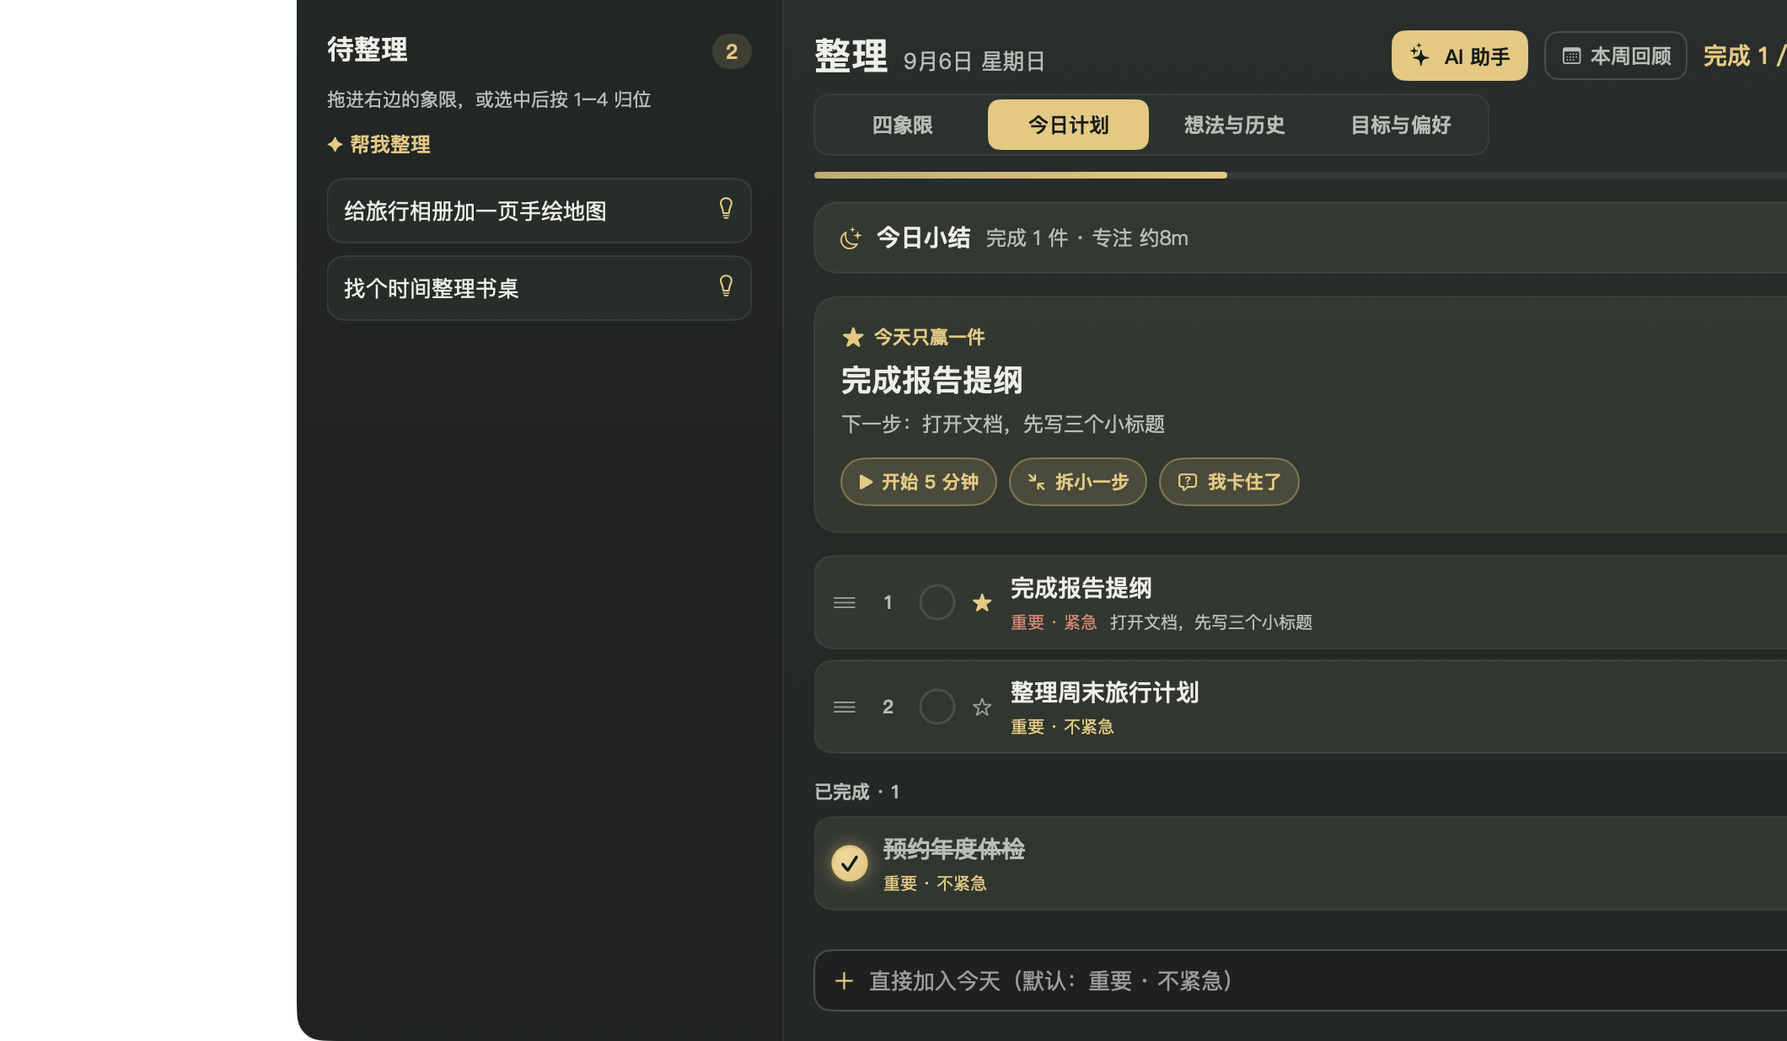
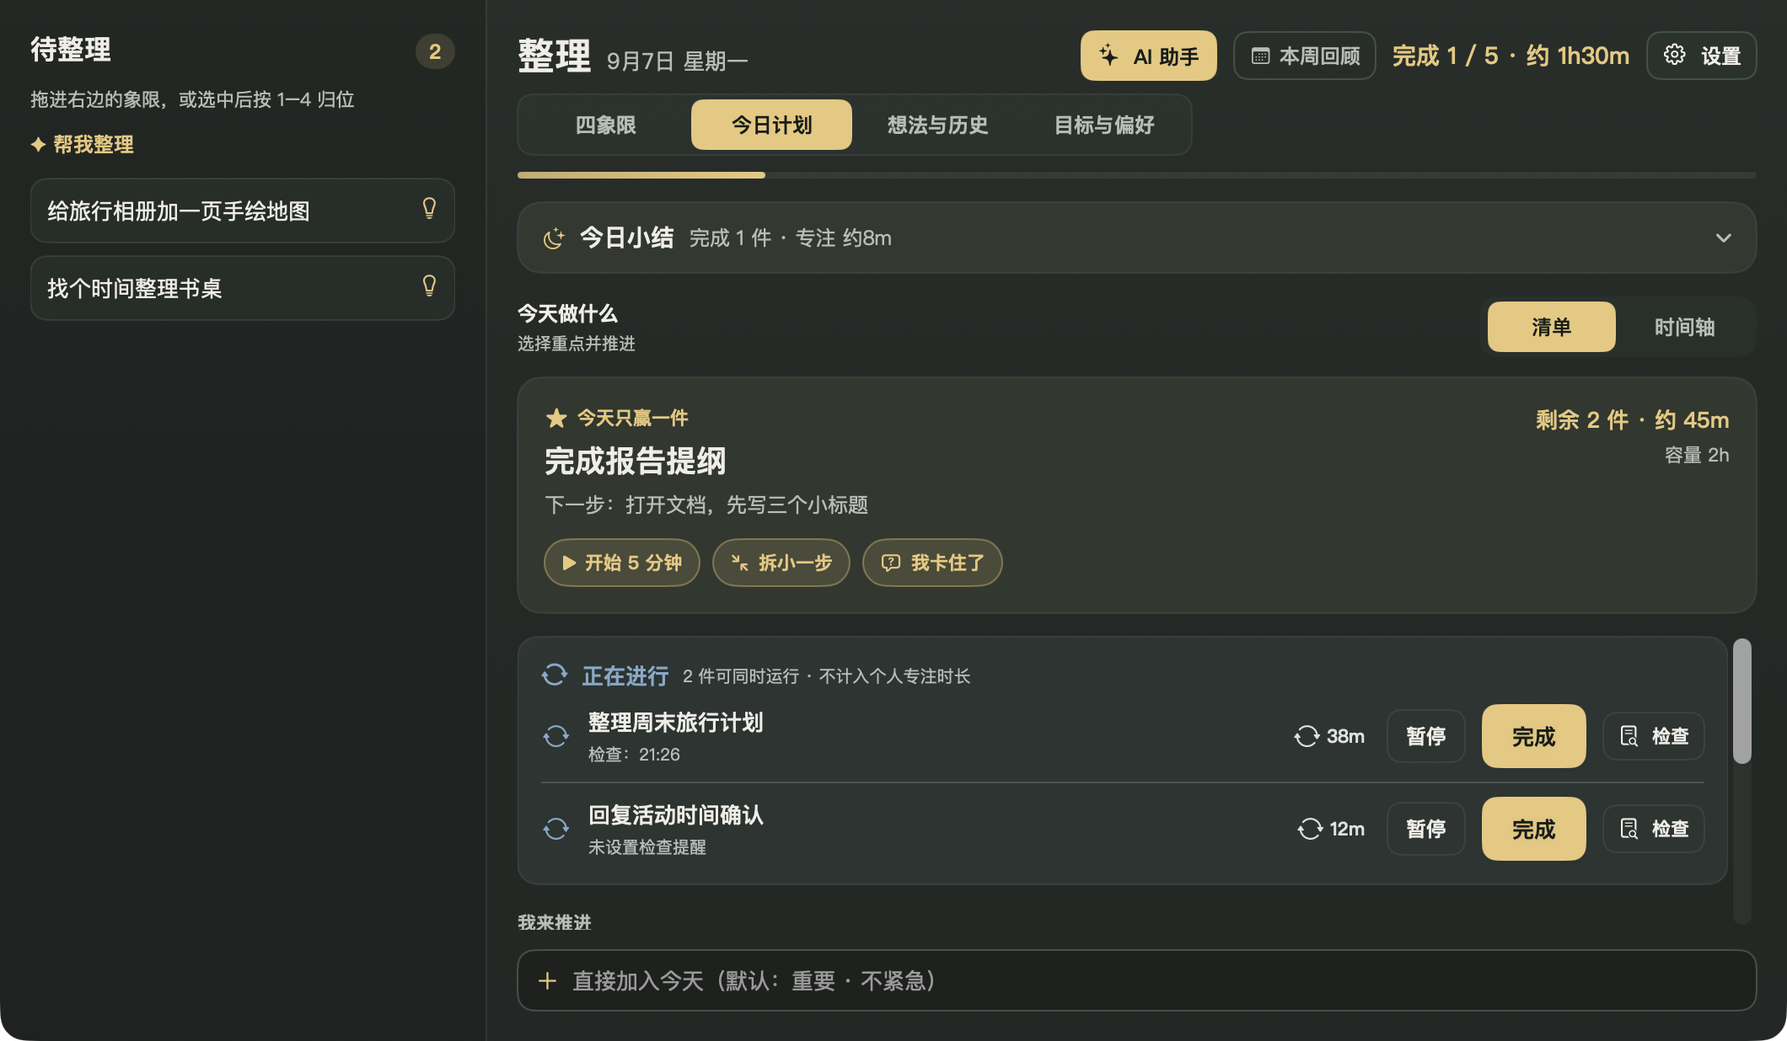
docs: prepare Pare 2.7.0 preview release

diff --git a/Sources/Pare/PlanningViews.swift b/Sources/Pare/PlanningViews.swift
@@ -837,10 +837,9 @@ private struct DayTimelineView: View {
                         }
                     }
                     .frame(height: contentHeight)
-                    .onDrop(of: [UTType.text], delegate: TimelineDropDelegate(
-                        store: store, dayStart: dayStart, startHour: startHour,
-                        slotCount: slotCount, minutesPerSlot: minutesPerSlot,
-                        slotHeight: slotHeight))
+                    .dropDestination(for: String.self) { values, location in
+                        scheduleDropped(values, at: location.y)
+                    }
                 }
                 .onAppear {
                     let nowMinutes = calendar.component(.hour, from: Date()) * 60
@@ -895,7 +894,9 @@ private struct DayTimelineView: View {
         .background(RoundedRectangle(cornerRadius: 10).fill(Theme.panel.opacity(0.38)))
         .overlay(RoundedRectangle(cornerRadius: 10).stroke(Theme.border.opacity(0.7)))
         .contentShape(Rectangle())
-        .onDrop(of: [UTType.text], delegate: UnscheduledDropDelegate(store: store))
+        .dropDestination(for: String.self) { values, _ in
+            return returnToShelf(values)
+        }
     }
 
     private var timeGrid: some View {
@@ -941,6 +942,30 @@ private struct DayTimelineView: View {
         let minutes = calendar.component(.hour, from: date) * 60 + calendar.component(.minute, from: date)
         let raw = CGFloat(minutes - startHour * 60) / CGFloat(minutesPerSlot) * slotHeight
         return min(contentHeight - slotHeight, max(0, raw))
+    }
+
+    private func scheduleDropped(_ values: [String], at y: CGFloat) -> Bool {
+        guard let raw = values.first, let id = UUID(uuidString: raw) else { return false }
+        let slot = min(slotCount - 1, max(0, Int(floor(y / slotHeight))))
+        guard let date = calendar.date(byAdding: .minute,
+                                       value: startHour * 60 + slot * minutesPerSlot,
+                                       to: dayStart) else { return false }
+        if runningIDs.contains(id) {
+            store.setParallelCheck(id, at: date)
+        } else {
+            store.scheduleTask(id, at: date)
+        }
+        return true
+    }
+
+    private func returnToShelf(_ values: [String]) -> Bool {
+        guard let raw = values.first, let id = UUID(uuidString: raw) else { return false }
+        if runningIDs.contains(id) {
+            store.setParallelCheck(id, at: nil)
+        } else {
+            store.unscheduleTask(id)
+        }
+        return true
     }
 
     private func lanePlacement(for task: TaskItem) -> (index: Int, count: Int) {
@@ -990,7 +1015,7 @@ private struct TimelineTaskChip: View {
             .contentShape(Rectangle())
         }
         .buttonStyle(.plain)
-        .onDrag { NSItemProvider(object: task.id.uuidString as NSString) }
+        .draggable(task.id.uuidString)
         .help(isParallel ? "点击选择检查时间，或拖到时间轴" : "点击选择开始时间，或拖到时间轴")
         .popover(isPresented: $showPicker, arrowEdge: .bottom) {
             VStack(alignment: .leading, spacing: 12) {
@@ -1084,7 +1109,7 @@ private struct TimelineTaskBlock: View {
                 .help("上下拖动调整时长")
         }
         .contentShape(Rectangle())
-        .onDrag { NSItemProvider(object: task.id.uuidString as NSString) }
+        .draggable(task.id.uuidString)
         .contextMenu {
             Button("开始专注") { _ = store.startTimer(task.id, targetMinutes: effectiveMinutes) }
             Button("编辑详情") { showDetails = true }
@@ -1122,7 +1147,7 @@ private struct TimelineParallelMarker: View {
         .padding(.horizontal, 8).frame(height: 26)
         .background(Capsule().fill(Theme.qDelegate))
         .contentShape(Rectangle())
-        .onDrag { NSItemProvider(object: item.task.id.uuidString as NSString) }
+        .draggable(item.task.id.uuidString)
         .contextMenu {
             Button("编辑详情") { showDetails = true }
             Button("暂停进行") { _ = store.pauseParallelRun(item.task.id) }
@@ -1140,62 +1165,6 @@ private struct TimelineParallelMarker: View {
         formatter.dateFormat = "HH:mm"
         return formatter
     }()
-}
-
-private struct TimelineDropDelegate: DropDelegate {
-    let store: Store
-    let dayStart: Date
-    let startHour: Int
-    let slotCount: Int
-    let minutesPerSlot: Int
-    let slotHeight: CGFloat
-
-    func dropUpdated(info: DropInfo) -> DropProposal? { DropProposal(operation: .move) }
-
-    func performDrop(info: DropInfo) -> Bool {
-        let slot = min(slotCount - 1, max(0, Int(floor(info.location.y / slotHeight))))
-        guard let date = Calendar.current.date(byAdding: .minute,
-                                               value: startHour * 60 + slot * minutesPerSlot,
-                                               to: dayStart),
-              let provider = info.itemProviders(for: [UTType.text]).first else { return false }
-        loadTaskID(from: provider) { id in
-            DispatchQueue.main.async {
-                if store.parallelRuns.contains(where: { $0.taskID == id }) {
-                    store.setParallelCheck(id, at: date)
-                } else {
-                    store.scheduleTask(id, at: date)
-                }
-            }
-        }
-        return true
-    }
-}
-
-private struct UnscheduledDropDelegate: DropDelegate {
-    let store: Store
-
-    func dropUpdated(info: DropInfo) -> DropProposal? { DropProposal(operation: .move) }
-
-    func performDrop(info: DropInfo) -> Bool {
-        guard let provider = info.itemProviders(for: [UTType.text]).first else { return false }
-        loadTaskID(from: provider) { id in
-            DispatchQueue.main.async {
-                if store.parallelRuns.contains(where: { $0.taskID == id }) {
-                    store.setParallelCheck(id, at: nil)
-                } else {
-                    store.unscheduleTask(id)
-                }
-            }
-        }
-        return true
-    }
-}
-
-private func loadTaskID(from provider: NSItemProvider, completion: @escaping (UUID) -> Void) {
-    provider.loadObject(ofClass: NSString.self) { object, _ in
-        guard let raw = object as? String, let id = UUID(uuidString: raw) else { return }
-        completion(id)
-    }
 }
 
 private struct ParallelRunRow: View {

diff --git a/Scripts/ReadmeDemo.swift b/Scripts/ReadmeDemo.swift
@@ -96,12 +96,19 @@ final class DemoDelegate: NSObject, NSApplicationDelegate {
         store.setActual(done.id, minutes: 8)
         store.setDailyWin(report.id)
         let calendar = Calendar.current
-        let currentHour = calendar.component(.hour, from: Date())
-        let demoHour = min(22, max(8, currentHour + 1))
-        let blockStart = calendar.date(bySettingHour: demoHour, minute: 0, second: 0, of: Date())!
+        let now = Date()
+        let minute = calendar.component(.minute, from: now)
+        let shifted = calendar.date(byAdding: .minute, value: 30 - minute % 15, to: now)!
+        var roundedComponents = calendar.dateComponents([.year, .month, .day, .hour, .minute], from: shifted)
+        roundedComponents.second = 0
+        let rounded = calendar.date(from: roundedComponents)!
+        let blockStart = calendar.isDate(rounded, inSameDayAs: now)
+            && calendar.component(.hour, from: rounded) < 23
+            ? rounded
+            : calendar.date(bySettingHour: 22, minute: 0, second: 0, of: now)!
         store.scheduleTask(report.id, at: blockStart, durationMinutes: 30)
         store.setToday(confirm.id, true)
-        store.scheduleTask(confirm.id, at: blockStart.addingTimeInterval(45 * 60), durationMinutes: 15)
+        store.scheduleTask(confirm.id, at: blockStart.addingTimeInterval(30 * 60), durationMinutes: 15)
         if let goalID = store.addGoal("本月完成一份结构清晰的报告"),
            var goal = store.goals.first(where: { $0.id == goalID }) {
             goal.motivation = "先理清结构，再逐步补全内容。"
@@ -121,7 +128,6 @@ final class DemoDelegate: NSObject, NSApplicationDelegate {
         store.capture("给旅行相册加一页手绘地图")
         _ = store.addThought("每周留一个不排计划的下午", notes: "散步、阅读，或者什么都不做。")
         if parallelDemo {
-            let now = Date()
             store.startParallelRun(trip.id, now: now.addingTimeInterval(-38 * 60),
                                    nextCheckAt: now.addingTimeInterval(7 * 60))
             store.startParallelRun(reply.id, now: now.addingTimeInterval(-12 * 60))

diff --git a/Tests/PareCoreTests/UIContractTests.swift b/Tests/PareCoreTests/UIContractTests.swift
@@ -148,8 +148,8 @@ final class UIContractTests: XCTestCase {
         XCTAssertTrue(planning.contains("case list = \"清单\""))
         XCTAssertTrue(planning.contains("case timeline = \"时间轴\""))
         XCTAssertTrue(planning.contains("DayTimelineView(store: store)"))
-        XCTAssertTrue(planning.contains("TimelineDropDelegate"))
-        XCTAssertTrue(planning.contains("UnscheduledDropDelegate"))
+        XCTAssertTrue(planning.contains(".dropDestination(for: String.self)"))
+        XCTAssertTrue(planning.contains(".draggable(task.id.uuidString)"))
         XCTAssertTrue(planning.contains("点击选择开始时间，或拖到时间轴"),
                       "待安排任务必须同时支持点击与拖放，避免精确拖动成为唯一入口")
         XCTAssertTrue(planning.contains("上下拖动调整时长"))
@@ -198,10 +198,11 @@ final class UIContractTests: XCTestCase {
         let expected: [String: (Int, Int)] = [
             "docs/images/matrix.png": (2120, 1236),
             "docs/images/today.png": (2120, 1236),
-            "docs/images/capture.png": (848, 890),
+            "docs/images/capture.png": (848, 1130),
             "docs/images/momentum.png": (860, 852),
             "docs/images/settings.png": (1160, 1260),
             "docs/images/ai-plan.png": (1200, 1280),
+            "docs/images/timeline.png": (2120, 1236),
         ]
         for (path, size) in expected {
             let actual = try imageSize(path)

diff --git a/Tests/RELEASE_ACCEPTANCE.md b/Tests/RELEASE_ACCEPTANCE.md
@@ -1,30 +1,32 @@
-# 2.5.1 预发布验收记录
+# 2.7.0 预发布验收记录
 
-更新：2026-09-06。按最新发布授权，将 2.5.1 作为预发布版交付；下列未完成项目明确保留，不宣称已通过稳定版全量验收。
+更新：2026-09-07。2.7.0 继续作为预发布版交付；自动测试、隔离界面测试和本机安装均已完成，但不把尚未完成的系统级验证描述为稳定版全量验收。
 
 ## 已验证
 
-- 128 项自动测试通过，包括跨日、夏令时、跨午夜计时、已停止计时重载、浏览器切换策略边界、主窗口设置入口，以及新阅读层级和分类草稿保留契约测试。
-- 本地 2.4.2（build 21）已构建、验签并启动。主窗口新增可见「设置」和 `⌘,`；隔离 App 已验证点击打开、关闭后重开及重复进入设置。窗口关闭后自动化失去目标时通过演示菜单重新定位；线程采样未见主线程卡死。
-- 隔离 UI 验收：任务详情保存/取消、AI 参考范围记忆/撤销记忆、随手记收起再展开。
-- 本机模拟 API 验收：超预算拒绝及只读预览、手动重试、未选择时禁用采纳、采纳写入动作/完成标准并保留原估时。2 次请求，无额外自动重试。
-- 修复并实测普通测试通知被系统拒绝时的错误反馈。之前的 UI 不等待提交结果便显示“已发送”；普通和漂移测试入口现在均通过提交回调反馈，进行中禁止重复点击。系统接受不等于横幅已经展示。
-- 用户已确认正式 Pare 的普通测试提醒可以收到；此项不代表通知动作按钮或浏览器自动触发链路通过。
-- 2.5.0（build 22）界面改版已构建并验签。隔离实测涵盖 880pt 主窗口标题/状态分行、四类设置导航与未保存 AI 草稿保持、长分析展开全文、详情固定操作及日期展开、目标/历史/回顾和随手记收起再展开。
-- 2.5.0 已在用户允许后重启运行。新包位于 `dist/Pare.app`。
-- 2.5.1（build 23）补齐 `CFBundleIconFile`/`CFBundleIconFiles`，菜单栏 App 启动时显式加载 AppIcon；已安装到 `/Applications/Pare.app`，系统可解析出自定义图标，128 项测试继续通过。
+- 145 项自动测试通过，覆盖旧数据迁移、schema v4 持久化、时间块默认时长与缩放、冲突检测、跨日清理、并行检查点和时间安排提醒。
+- 「今日计划」内部提供 `清单 / 时间轴`，未增加第五个顶层工作区；880pt 紧凑窗口中时间块、当前时间线、待安排区域和并行检查点可读。
+- 隔离演示数据已验证清单中的安排时间、时间轴滚动定位、时间块右键菜单、取消安排后返回待安排，以及单击任务选择开始／检查时间。
+- 拖放改用 macOS 13 原生类型化拖放 API；由于当前桌面自动化的拖动手势未触发系统拖放会话，发布版同时保留单击选择时间的完整替代路径。自动化限制不冒充真实拖放已通过。
+- 时间安排、截止日期和普通提醒独立保存；开始专注后清除该时间块尚未触发的开始提醒，避免正在执行时重复通知。
+- 并行任务只形成检查点，不占用个人时间块；同一任务继续保持“个人专注／并行进行”互斥。
+- 最终发布构建为 Pare 2.7.0（build 28）；升级前的 2.6.0 应用和数据快照保存在 `/private/tmp/pare-2.7-time-axis.frSw36/`。
+- API 地址、模型名和密钥模式扫描无命中；发布包不包含用户任务、AI 配置或钥匙串内容。
 
-## 稳定版仍待完成的验收
+## 仍待完成的系统级验收
 
-- 通知点击动作。普通提醒到达已由用户确认；独立验收 App 被系统拒绝通知，不能把其“提交失败”分支通过当作动作按钮或其它通知类别通过。
-- 浏览器增强：真实浏览器页面切换，经辅助功能事件、策略判断到通知与用户动作的完整链路。自动策略测试不能替代此项。
-- 实际电脑休眠/唤醒时的计时停止与恢复提醒。已通过的测试只验证可控时间下的数据逻辑，没有修改系统时钟或让电脑实际休眠。
-- 独立干净环境安装与跨版本升级的进一步验证。当前包为 Apple Silicon、本地 ad-hoc 签名；未做 Developer ID 公证。
+- 在真实鼠标操作下再次确认待安排任务拖入时间轴、时间块改时和底边缩放；单击安排路径已可用。
+- 时间安排通知的“开始专注／延后 15 分钟／完成”动作需要等待真实通知到达后逐项验证。
+- 浏览器增强检测从真实浏览器事件到通知动作的完整链路。
+- 实际电脑休眠／唤醒时的计时停止与恢复提醒。
+- 独立干净环境安装和跨版本升级；当前包仅为 Apple Silicon、本地 ad-hoc 签名，未使用 Developer ID 签名或 Apple 公证。
 
 ## 隔离测试入口
 
-`bash Scripts/screenshot-demo.sh --verify-shortcuts --verify-integrations`
+```bash
+bash Scripts/screenshot-demo.sh --parallel-demo --compact
+```
 
-打开测试 App 的「演示 → 验证快捷键设置」。使用独立虚构数据和设置；检测默认关闭。系统权限应由用户明确允许，不通过测试脚本修改授权数据库。正式用户数据与密钥不用于 fixture，也不进入仓库。
+演示 App 使用临时目录和虚构任务，不读取正式 Pare 数据、AI 地址或密钥。通知与辅助功能集成仅在显式使用 `--verify-shortcuts --verify-integrations` 时连接，系统权限仍由用户决定。
 
-本次使用 GitHub Pre-release 标记，并在版本说明中列明这些限制；不将自动数据测试或模拟 API 验收冒充真实系统端到端验收。
+本次 GitHub Release 应继续标记为 **Pre-release**，并在版本说明中保留上述限制。

diff --git a/docs/development.md b/docs/development.md
@@ -33,8 +33,9 @@ bash Scripts/screenshot-demo.sh
 
 1. `⌘1` 打开整理，截取四象限。
 2. 点击「今日计划」，截取今日关键任务和五分钟推进入口。
-3. 点击「我卡住了」，选择“任务太大”，截取引导面板。
-4. `⌘2` 打开随手记，截取浮窗。
+3. 在今日计划切换到「时间轴」，截取时间块和并行检查点。
+4. 点击「我卡住了」，选择“任务太大”，截取引导面板。
+5. `⌘2` 打开随手记，截取浮窗。
 
 演示包括「完成报告提纲」「整理周末旅行计划」等虚构内容。文档图片保存到 `docs/images`，保留原生界面文字与布局。整理窗口统一为 1060 × 660 pt；可截取内容区域避免录屏状态标记进入图片，小浮窗按真实尺寸展示。
 
@@ -83,6 +84,6 @@ xcrun swiftc -target arm64-apple-macosx13.0 Scripts/capture-window.swift -o /tmp
 
 AI 联调仅使用虚构内容。真实服务地址、模型配置和 API Key 不应放入源码、截图、测试 fixture 或 Git；分别通过 App 本机偏好和钥匙串保存。单元测试使用保留的示例域名与占位模型，不发送付费网络请求。
 
-界面紧凑布局可使用 `bash Scripts/screenshot-demo.sh --verify-shortcuts --compact` 验收，主窗口以 880pt 宽度打开。演示主窗口的设置与本周回顾入口均连接独立数据的真实窗口。`InterfaceComponents.swift` 提供通用次级按钮、分类标签、状态标签和可展开分析；设置的非活动分类保持挂载以保留草稿，同时关闭点击及辅助功能访问。
+界面紧凑布局可使用 `bash Scripts/screenshot-demo.sh --parallel-demo --compact` 验收，主窗口以 880pt 宽度打开，并带有两个时间块和并行检查点。演示主窗口的设置与本周回顾入口均连接独立数据的真实窗口。`InterfaceComponents.swift` 提供通用次级按钮、分类标签、状态标签和可展开分析；设置的非活动分类保持挂载以保留草稿，同时关闭点击及辅助功能访问。
 
 README 的 AI 结果图必须来自本机回环地址的模拟服务，并显式传入 `--ai-endpoint=http://127.0.0.1:PORT/v1`。截图演示会使用固定的 `pare-readme-mock` 模型名；未传参数时始终重置为关闭状态。不得把真实 API 地址、模型名、密钥或用户任务用于文档截图。

diff --git a/docs/releases/v2.7.0.md b/docs/releases/v2.7.0.md
@@ -1,6 +1,8 @@
-# Pare 2.7.0 — 今日时间轴
+# Pare 2.7.0 — 今日时间轴与并行推进
 
 此开发版本在「今日计划」内部增加 `清单 / 时间轴`，让任务除了“今天要做”，还能明确到“今天什么时候开始”。它不是完整日历，也不会增加新的顶层工作区。
+
+本版本也加入独立的“并行进行”状态，用于跟踪交给其它机器、外部 AI 或他人的工作。Pare 不连接这些执行者，只记录何时开始、何时检查以及何时暂停或完成。
 
 ## 时间块
 
@@ -16,5 +18,14 @@
 - 时间块默认提前 5 分钟提醒，也可设置为准时、提前 15 分钟或关闭。
 - 通知可直接开始专注、延后 15 分钟或完成任务。
 - 并行任务不占用个人时间块；拖入时间轴时显示为检查点，并继续使用并行检查提醒。
+- 多个并行任务可以同时运行，个人「专注」仍然只有一个；两类时长分开统计。
+- 菜单栏显示 `↻N` 运行数量，今日计划提供独立的“正在进行”区域。
+- 随手记可直接启动或暂停个人专注和并行任务，不需要先打开详情。
+
+## 交互改进
+
+- 所有任务 `…` 详情入口扩大透明点击范围，更容易命中，但不增加视觉噪声。
+- 待安排任务既可拖放，也可单击选择时间；精确拖动不是唯一入口。
+- 清单与随手记会显示任务已经安排的开始时间。
 
 数据格式升级到 schema v4。旧数据可以直接读取；使用 2.7.0 保存后，不建议再用 2.6.x 打开同一数据文件。

diff --git a/Tests/UI_SMOKE_CHECKLIST.md b/Tests/UI_SMOKE_CHECKLIST.md
@@ -36,3 +36,6 @@
 29. 布局：最小宽度下任务状态放在标题下方，不挤压任务名；详情页保存/取消固定在底部；回顾标题和复制操作固定；随手记收起再展开不裁切。打开系统“降低透明度”后背景仍保持可读。
 30. README 截图：只截隔离演示 App，主窗口和设置去除标题栏；使用原生 `.bestResolution` 2× 捕获，不使用桌面操作工具的 1× 观察图或后期插值放大。提交前运行 `UIContractTests.testReadmeScreenshotsUseNativeRetinaResolution`。
 31. 并行进行：同时启动至少两件任务并保留另一件个人专注；今日计划分区显示经过时间和检查时间。暂停不增加实际专注分钟，完成只结束对应运行。重启、跨日、删除及完成清理状态正确；检查提醒可完成、暂停或延后。
+32. 今日时间轴：在清单／时间轴间切换；单击待安排任务选择时间，并用真实鼠标拖入 15 分钟刻度。再次拖动改变开始时间，拖动底边改变时长，拖回待安排取消；冲突任务并排且有提示。
+33. 时间提醒：分别验证准时、提前 5 分钟、提前 15 分钟和关闭；通知动作可开始专注、延后 15 分钟或完成。开始后不能重复收到同一开始提醒。
+34. 并行检查点：并行任务拖入时间轴后只显示检查点，不形成个人时间块；取消检查不暂停任务，暂停任务后检查提醒消失。
